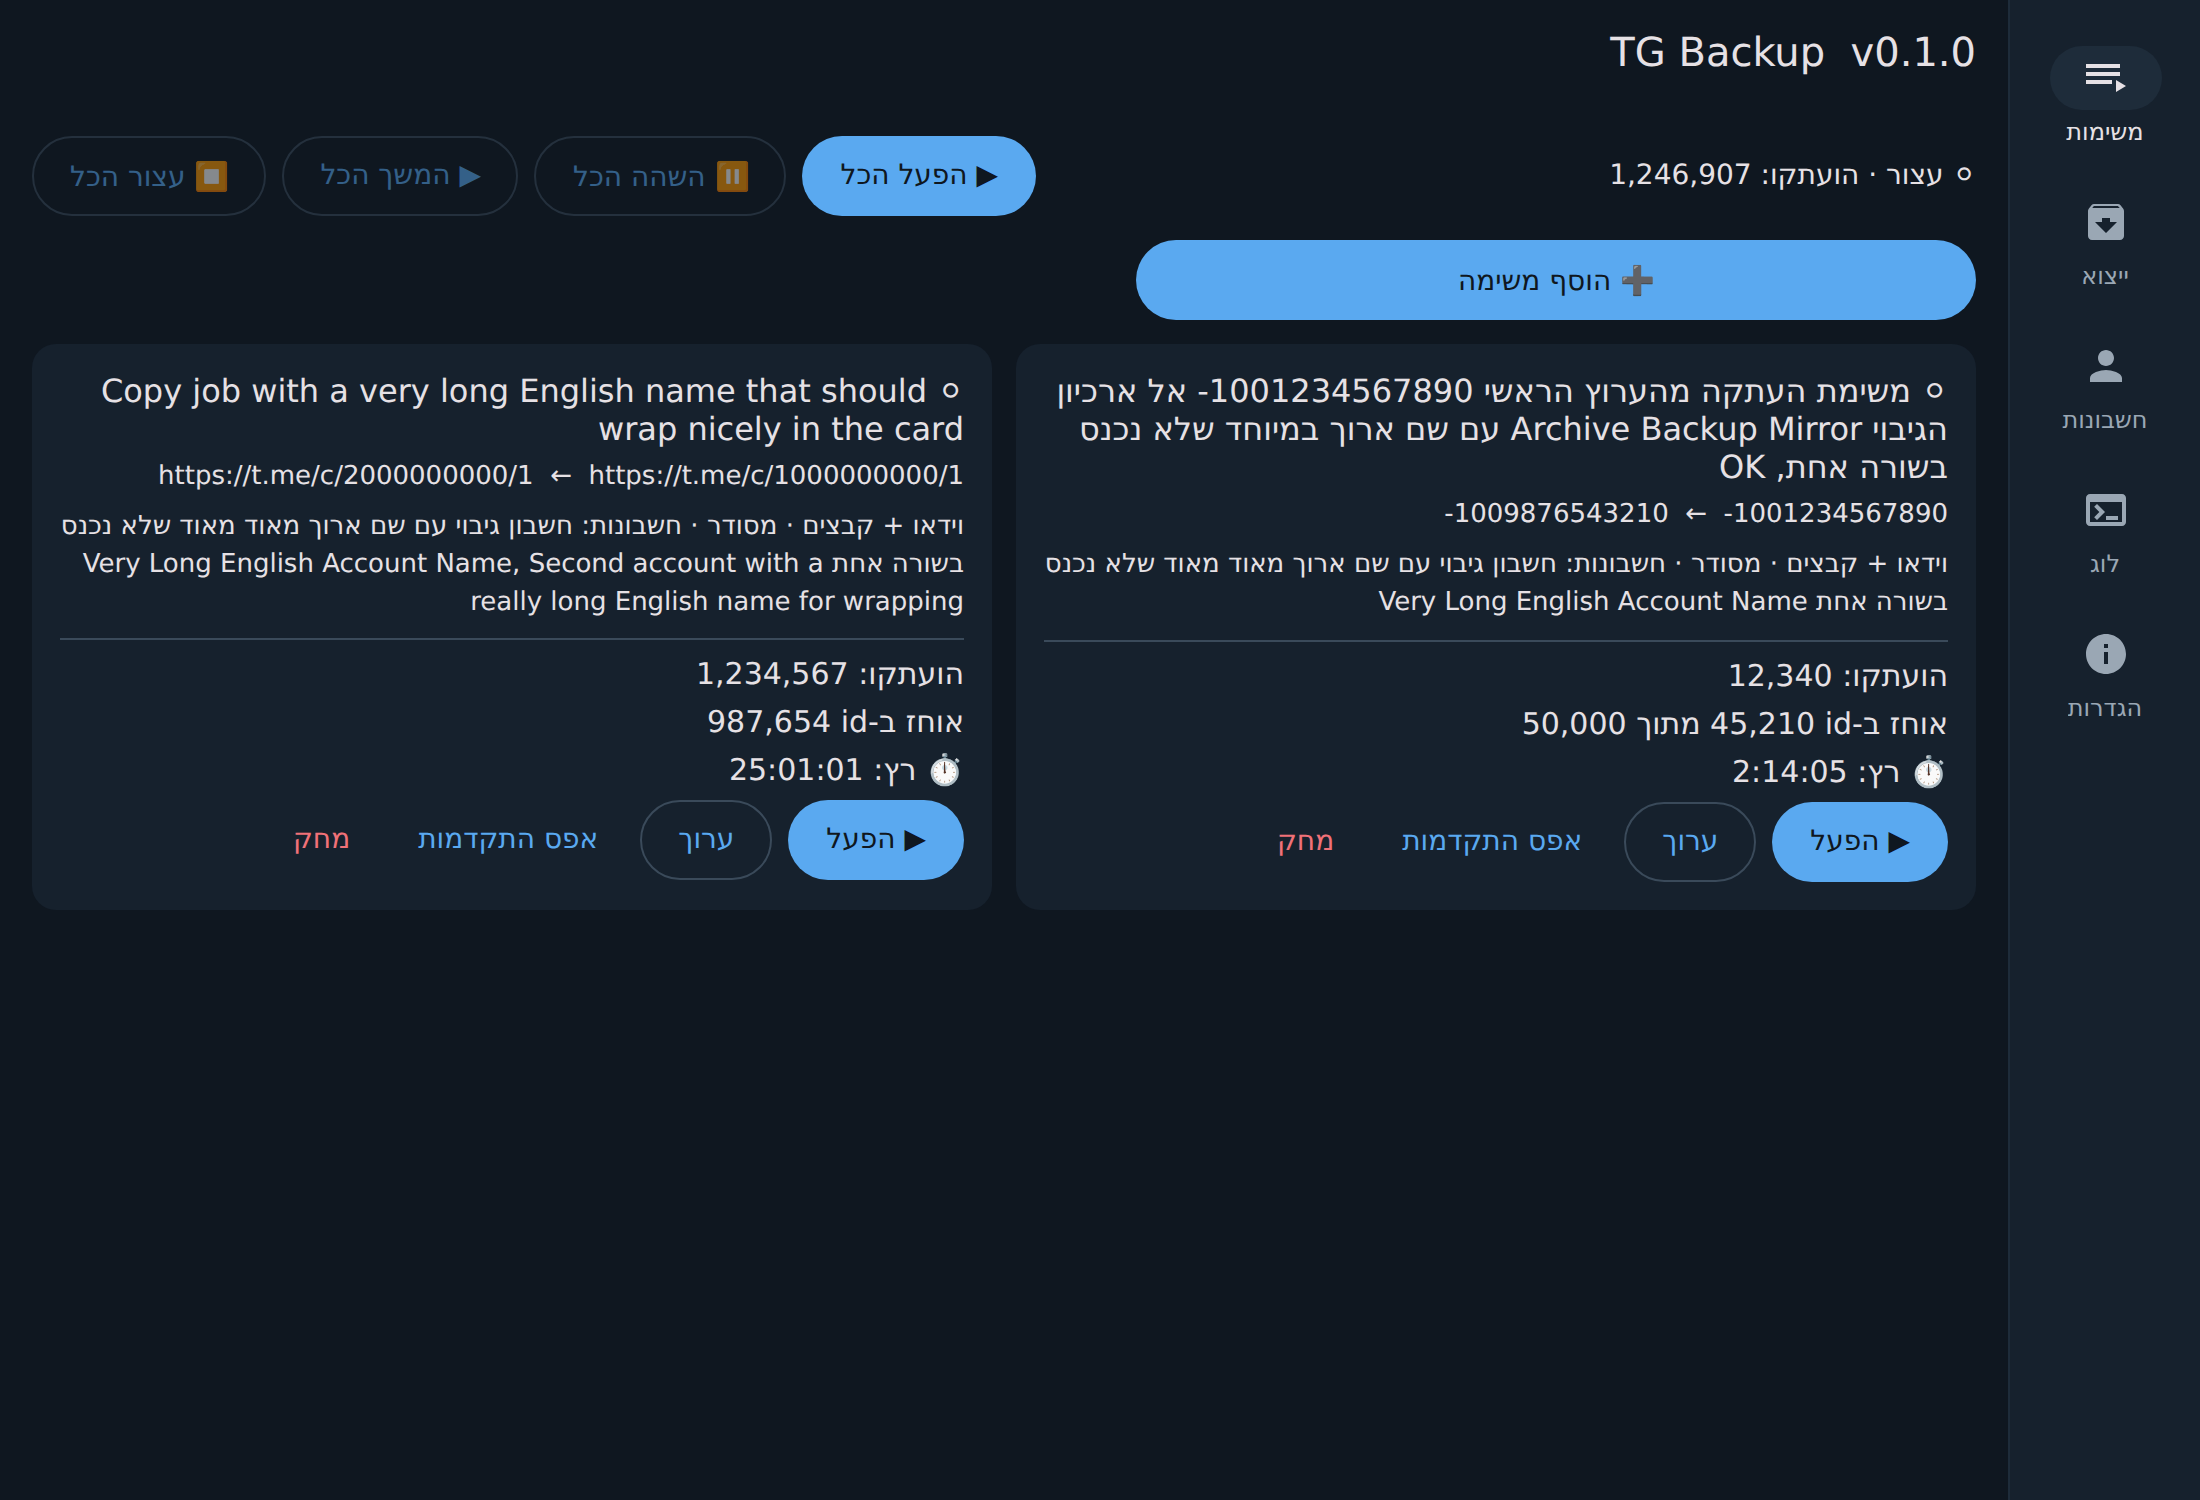
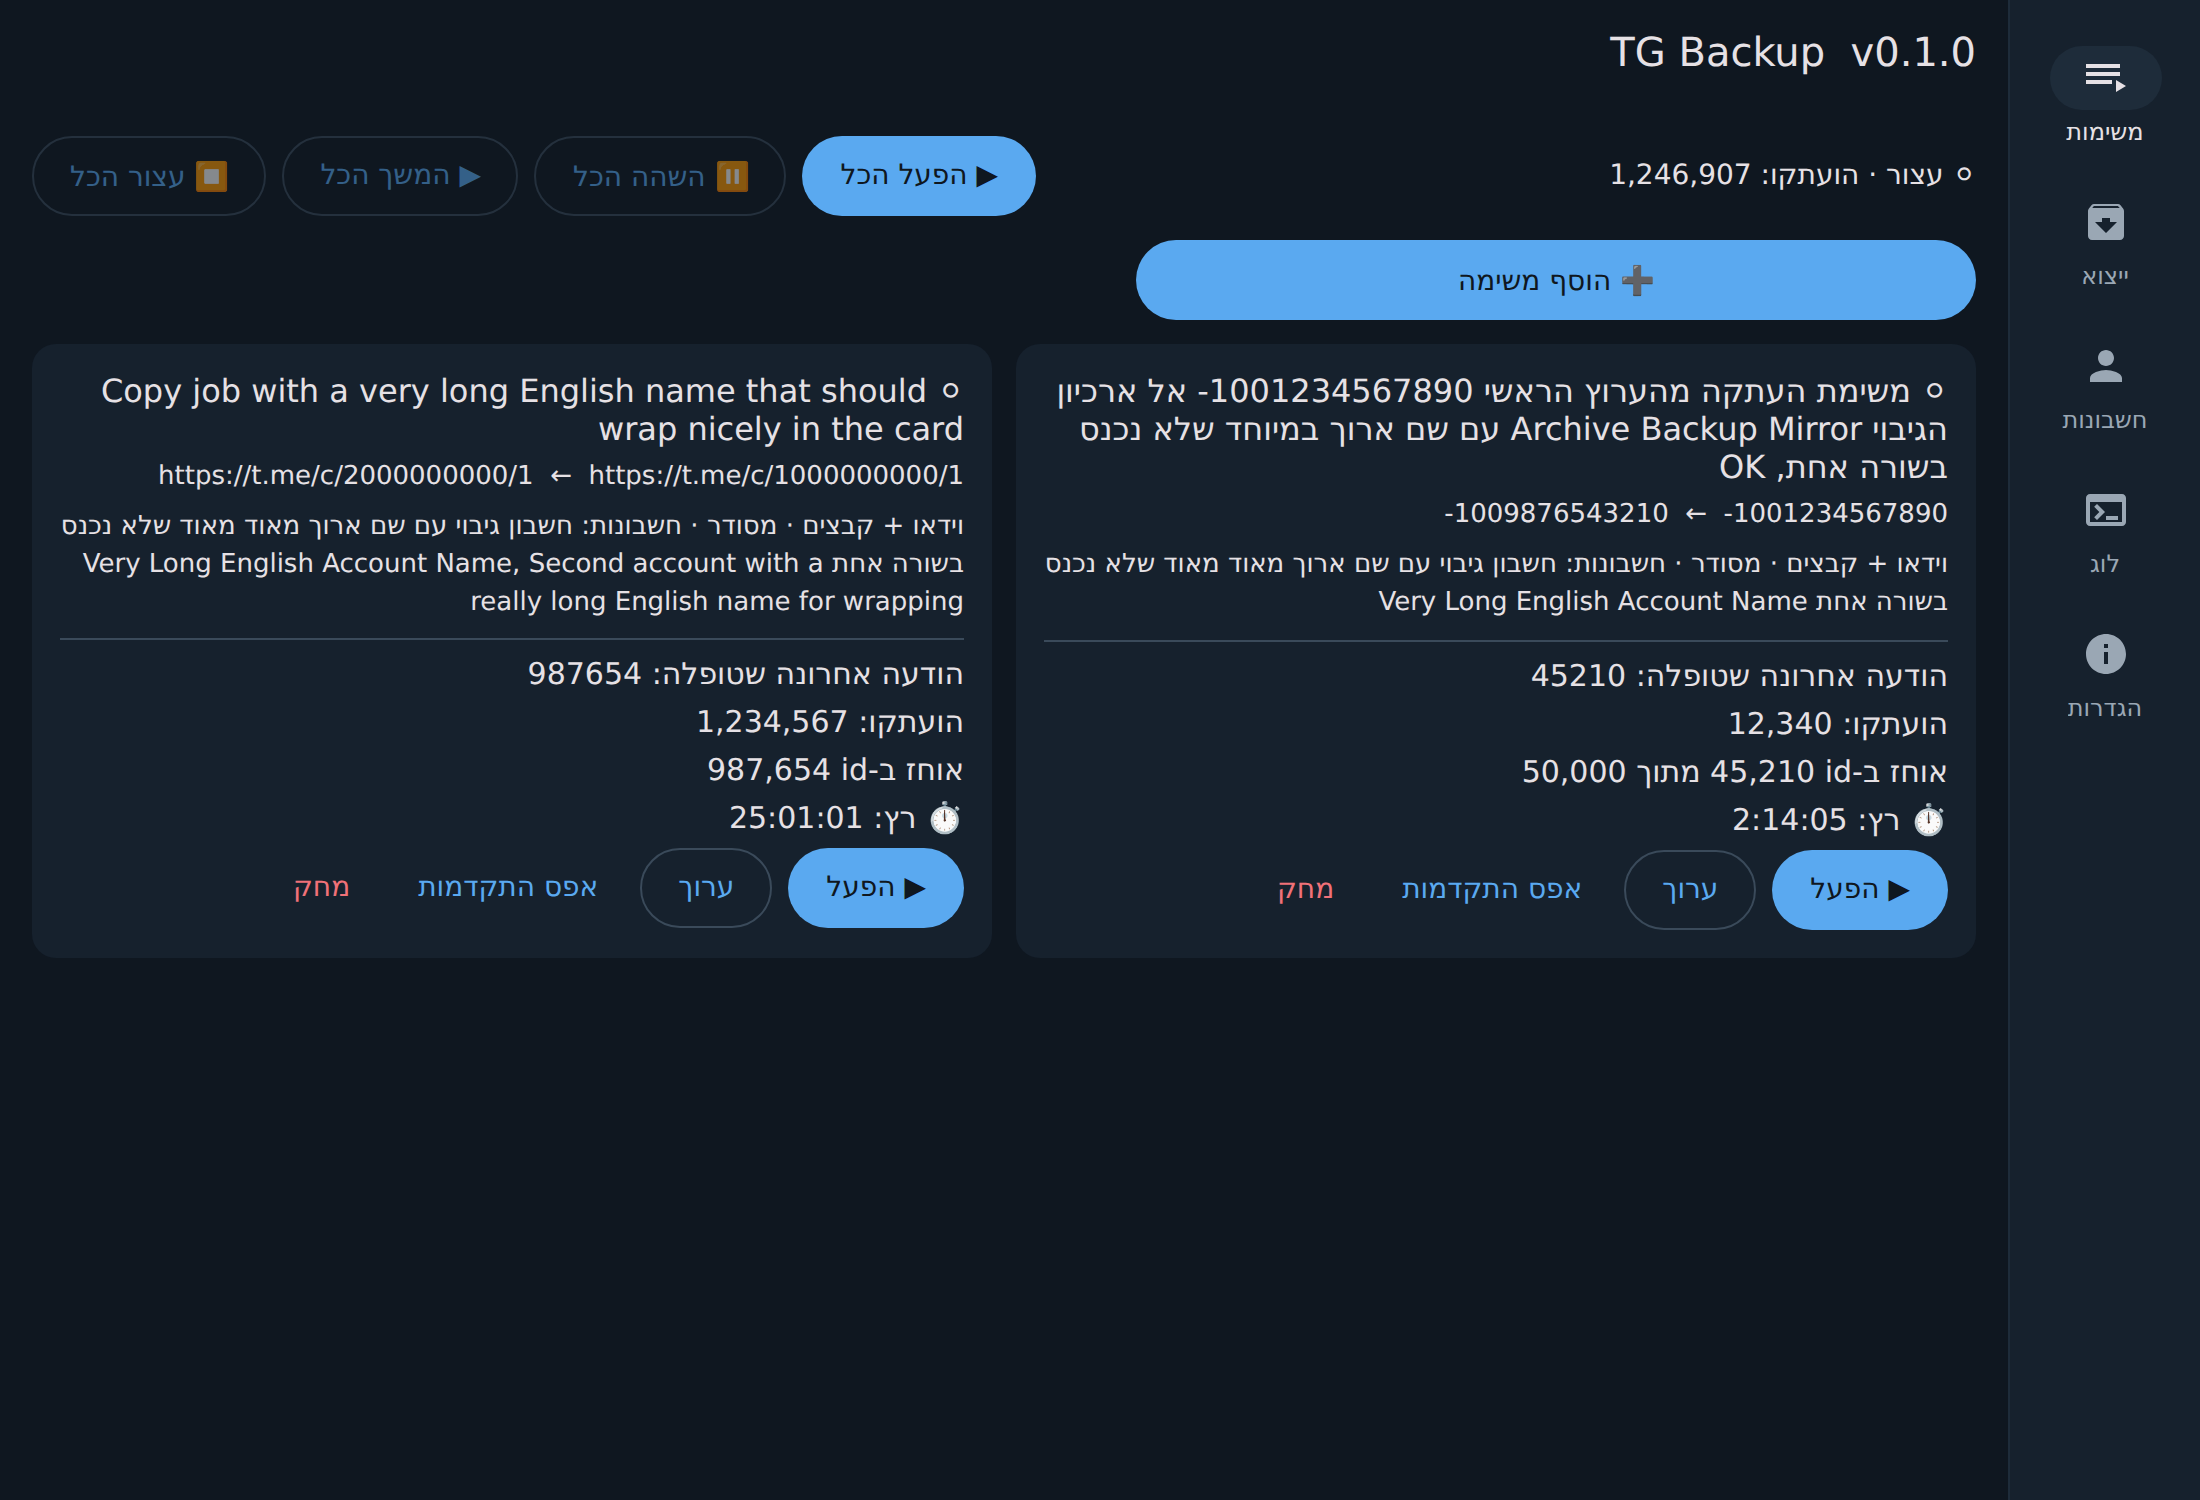
docs: the jobs screenshots again (window, split 2 jobs at 1920 and 1936, and split-jobs-wide-log: 2 jobs, the divider moved, two columns), deviceScaleFactor 2, long-names fixture; the cards' columns by the pane's width

diff --git a/docs/PORTING.md b/docs/PORTING.md
@@ -120,6 +120,6 @@ in `web-tests/` (jobs, accounts, export, shell, desktop-layout, split-view, layo
 ### Screenshots (`docs/screens/`, deviceScaleFactor 2, long-names fixture)
 - Phone 390×844: `phone-jobs.png`, `phone-accounts.png`, `phone-export.png`, `phone-log.png`, `phone-settings.png`.
 - Window 1100×750: `window-jobs.png`, `window-accounts.png`, `window-export.png`, `window-log.png`, `window-settings.png`.
-- Split view 1920×1040: `split-jobs-log.png` (2 jobs: the jobs pane a third), `split-jobs-4-log.png` (4 jobs: half, two columns), `split-jobs-12-log.png` (12 jobs: two columns, the jobs pane scrolls on its own), `split-accounts-export.png`. The cards fill the jobs pane (one column its width, or two sharing it); from 900 px `➕ הוסף משימה` heads the job list.
+- Split view 1920×1040: `split-jobs-log.png` (2 jobs: the jobs pane a third), `split-jobs-4-log.png` (4 jobs: half, two columns), `split-jobs-12-log.png` (12 jobs: two columns, the jobs pane scrolls on its own), `split-jobs-wide-log.png` (2 jobs, the divider moved to 58%: two columns by the pane's width), `split-accounts-export.png`. The cards fill the jobs pane: one column its width, two sharing it once the pane is 720 px or wider (by width, not by the number of jobs); from 900 px `➕ הוסף משימה` heads the job list.
 - Split view 1936×1040 (a maximised Windows window): `split-jobs-log-1936.png` (2 jobs, a third).
 - One screen with the rail, 960×1040: `rail-960-jobs.png`.
